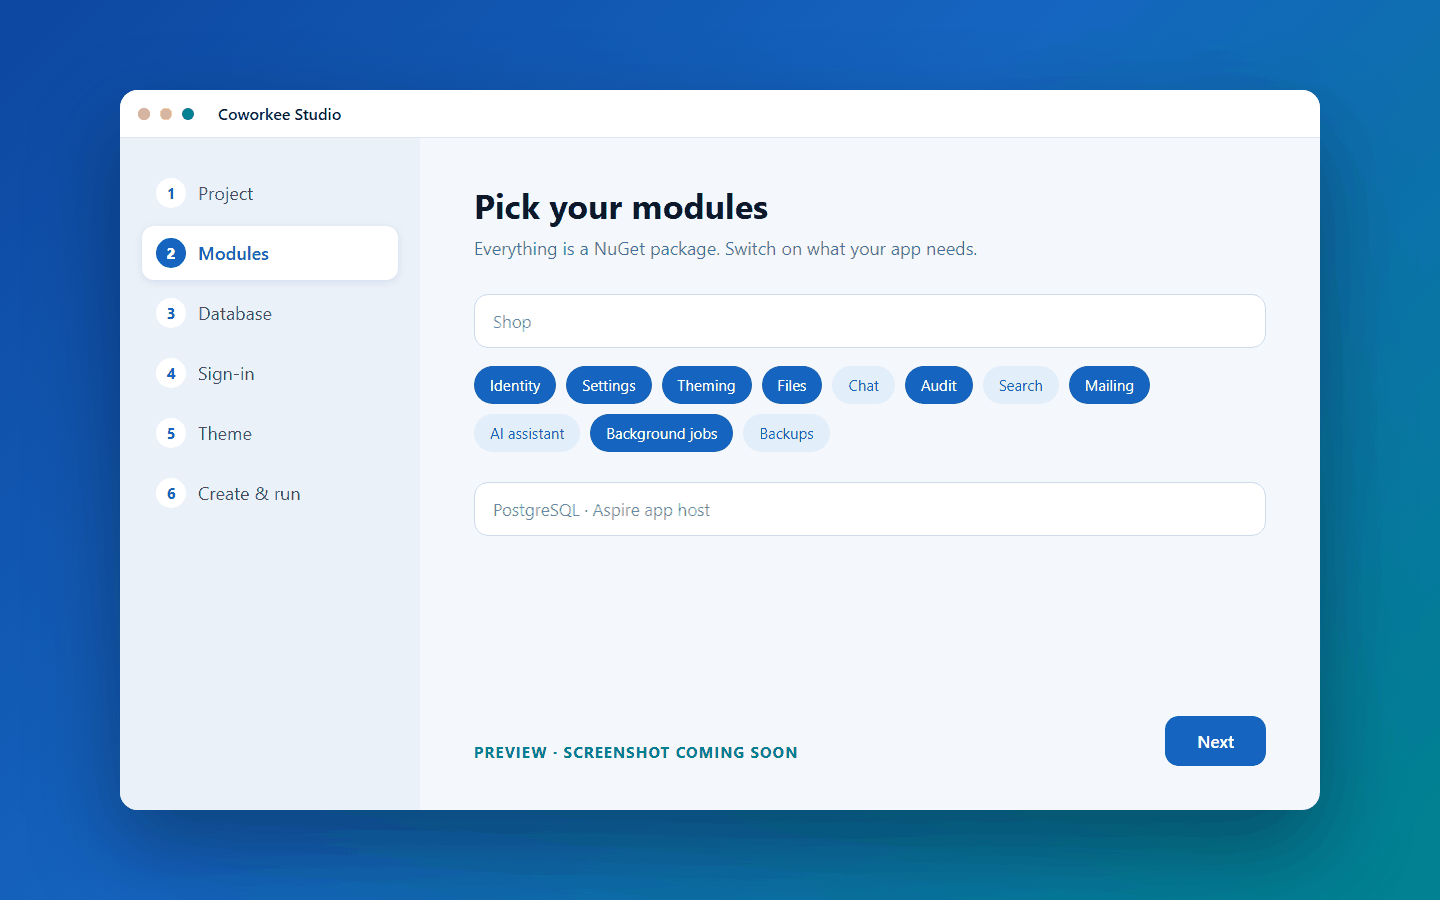
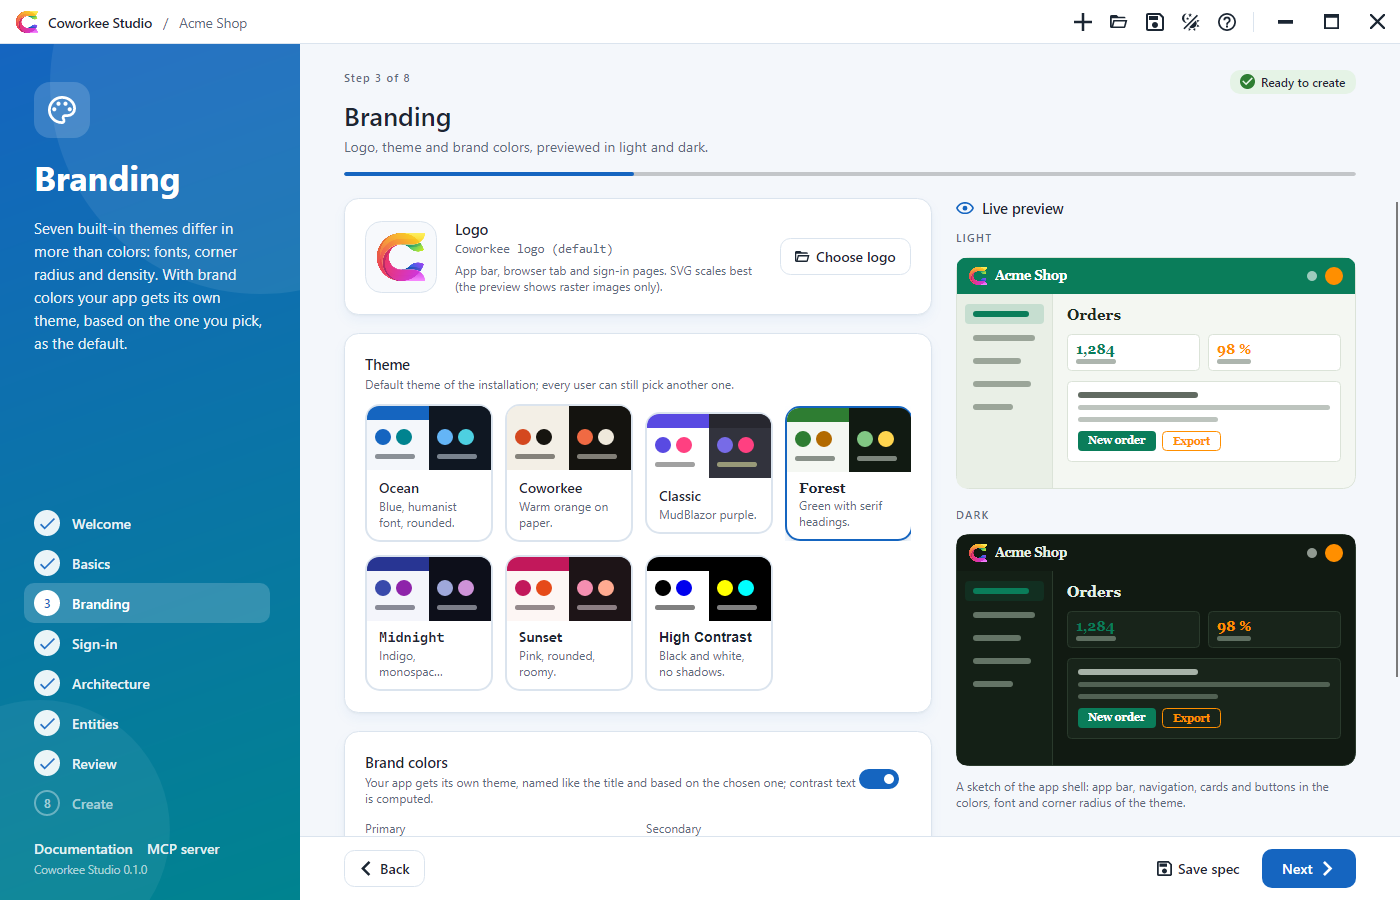
docs(studio): Coworkee Studio page in English and German with screenshots of every step, landing page shows the Studio

diff --git a/website/overrides/home.html b/website/overrides/home.html
@@ -25,7 +25,7 @@
   "copied": ("Kopiert" if de else "Copied"),
   "cli_doc": ("Alle Befehle" if de else "All commands"),
   "studio": ("Lieber mit Oberfläche? Coworkee Studio" if de else "Prefer a UI? Coworkee Studio"),
-  "studio_t": ("<code>coworkee ui</code> installiert und startet Coworkee Studio, die Desktop-App zum CLI (Tool-Befehl <code>coworkee-ui</code>). Ein Assistent führt durch Name, Module, Datenbank, Anmeldung und Theme, legt die App an und startet sie." if de else "<code>coworkee ui</code> installs and starts Coworkee Studio, the desktop app for the CLI (tool command <code>coworkee-ui</code>). A wizard walks through name, modules, database, sign-in and theme, creates the app and runs it."),
+  "studio_t": ("<code>coworkee ui</code> installiert und startet Coworkee Studio, die Desktop-App zum CLI (Tool-Befehl <code>coworkee-ui</code>). Ein Assistent führt durch Name, Logo und Theme, Anmeldung, Module und Infrastruktur und Ihre Entities, zeigt Vor- und Nachteile jeder Wahl, legt die App an und startet sie." if de else "<code>coworkee ui</code> installs and starts Coworkee Studio, the desktop app for the CLI (tool command <code>coworkee-ui</code>). A wizard walks through name, logo and theme, sign-in, modules, infrastructure and your entities, shows what each choice brings and costs, creates the app and runs it."),
   "mcp": ("Für KI-Assistenten" if de else "For AI assistants"),
   "mcp_t": ("<code>coworkee mcp</code> startet einen MCP-Server: Claude, Copilot und andere Assistenten legen Apps, Module und Migrationen über dieselben Befehle an." if de else "<code>coworkee mcp</code> starts an MCP server: Claude, Copilot and other assistants create apps, modules and migrations through the same commands."),
   "tour": ("Ein Rundgang durch die Demo-App" if de else "A tour of the demo app"),
@@ -97,11 +97,18 @@
   ("languages-light", "Sprachen" if de else "Languages"),
   ("account-light", "Konto" if de else "Account"),
   ("swagger-light", "Swagger"),
-  ("studio-wizard", "Coworkee Studio (Vorschau)" if de else "Coworkee Studio (preview)")
+  ("studio-welcome-light", "Coworkee Studio: Start" if de else "Coworkee Studio: start"),
+  ("studio-branding-dark", "Coworkee Studio: Branding mit Live-Vorschau" if de else "Coworkee Studio: branding with live preview"),
+  ("studio-architecture-light", "Coworkee Studio: Module und Infrastruktur" if de else "Coworkee Studio: modules and infrastructure"),
+  ("studio-entities-dark", "Coworkee Studio: Entities entwerfen" if de else "Coworkee Studio: designing entities"),
+  ("studio-generate-light", "Coworkee Studio: die App wird angelegt" if de else "Coworkee Studio: the app is created")
 ] %}
 
 {% macro shot(name) -%}
-  {{ ("assets/screenshots/" ~ name ~ (".png" if name.startswith("studio-") else ".webp")) | url }}
+  {%- if name == "studio-wizard" -%}{%- set file = name ~ ".png" -%}
+  {%- elif de and name.startswith("studio-") and name.endswith("-light") -%}{%- set file = name ~ "-de.webp" -%}
+  {%- else -%}{%- set file = name ~ ".webp" -%}{%- endif -%}
+  {{ ("assets/screenshots/" ~ file) | url }}
 {%- endmacro %}
 
 {% macro code(cmd) -%}
@@ -175,7 +182,12 @@
         </ol>
         <div class="cw-studio cw-reveal">
           <a class="cw-zoom" href="{{ shot('studio-wizard') }}" data-caption="Coworkee Studio">
-            <img src="{{ shot('studio-wizard') }}" alt="Coworkee Studio" loading="lazy">
+            <div class="cw-slides">
+              {% for n in ["studio-welcome", "studio-branding", "studio-architecture", "studio-entities"] %}
+                <img class="cw-light" src="{{ shot(n ~ '-light') }}" alt="Coworkee Studio" loading="lazy">
+                <img class="cw-dark" src="{{ shot(n ~ '-dark') }}" alt="" loading="lazy">
+              {% endfor %}
+            </div>
           </a>
           <div class="cw-studio__body">
             <h3>{% include ".icons/material/monitor-dashboard.svg" %}{{ t.studio }}</h3>

diff --git a/website/docs/getting-started/studio.de.md b/website/docs/getting-started/studio.de.md
@@ -1,0 +1,91 @@
+# Coworkee Studio
+
+Coworkee Studio ist der Desktop-Assistent der [Kommandozeile](cli.md). Er führt Seite für Seite durch eine neue App, erklärt, was jede Entscheidung bringt und kostet, zeigt Logo, Theme und Anmeldedesign als Vorschau, nimmt Ihre Entities auf und lässt die CLI die Solution anlegen. Er läuft unter Windows, macOS und Linux.
+
+![Coworkee Studio](../assets/screenshots/studio-architecture-light-de.webp)
+
+## Installieren und starten
+
+```bash
+dotnet tool install -g Coworkee.Cli
+coworkee ui
+```
+
+Mehr braucht es nicht: `coworkee ui` installiert das Studio (globales Tool `Coworkee.Studio`, Befehl `coworkee-ui`) in der Version der CLI, wenn es fehlt, aktualisiert es, wenn es älter ist, und startet es. Weitere Argumente gehen an das Studio:
+
+| Argument | |
+|---|---|
+| `--spec <datei>` | Öffnet eine [App-Spezifikation](cli.md#app-spezifikationen) |
+| `--output <ordner>` | Ordner, in dem der Ordner der App angelegt wird |
+| `--theme light` oder `dark` | Farbmodus (Standard: der des Systems) |
+| `--lang en` oder `de` | Sprache (Standard: die des Systems) |
+
+```bash
+coworkee ui --spec shop.json
+```
+
+Für lokale Builds von Coworkee: `coworkee ui --add-source <ordner> --studio-version <version>`.
+
+## Die Seiten
+
+Das Panel links zeigt, wo Sie sind; jede Seite, die Sie schon gesehen haben, ist einen Klick entfernt. `Alt+→` und `Alt+←` blättern vor und zurück, `Strg+O` und `Strg+S` öffnen und speichern eine Spezifikation, `F1` öffnet die Hilfe. Das Abzeichen oben zeigt, ob die Spezifikation gültig ist; Probleme erscheinen auf der Seite, zu der sie gehören.
+
+### Willkommen
+
+Eine neue App beginnen, eine Spezifikation öffnen (`.json` aus der CLI, dem [MCP-Server](mcp.md) oder einer früheren Sitzung) oder eine der zuletzt geöffneten wählen.
+
+![Willkommen](../assets/screenshots/studio-welcome-light-de.webp)
+
+### Grundlagen
+
+Der Name wird Präfix jedes Projekts und Namespaces (`Shop.Api`, `Shop.Web`) und wird deshalb wie in der CLI geprüft: ein Buchstabe, dann Buchstaben oder Ziffern. Den Titel lesen die Benutzer im Browser, in der App-Leiste, auf den Anmeldeseiten und im Aspire-Dashboard. Der Speicherort ist der Ordner, in dem der Ordner der App angelegt wird.
+
+![Grundlagen](../assets/screenshots/studio-basics-light-de.webp)
+
+### Branding
+
+Logo, die sieben [eingebauten Themes](../modules/theming.md) als Karten in hell und dunkel und Markenfarben mit Farbwähler. Die Live-Vorschau zeichnet die Oberfläche der App (App-Leiste, Navigation, Karten, Schaltflächen) in Farben, Schrift und Eckenradius des Themes, hell und dunkel nebeneinander. Mit Markenfarben bekommt die App ein eigenes Theme, benannt wie der Titel und basierend auf dem gewählten.
+
+![Branding](../assets/screenshots/studio-branding-light-de.webp)
+
+### Anmeldung
+
+Karte, Split oder Slide, gezeichnet als kleine animierte Skizzen der echten [Anmeldeseiten](../security/sign-in-pages.md), mit Bild oder Video neben dem Formular und dessen Seite.
+
+![Anmeldung](../assets/screenshots/studio-signin-light-de.webp)
+
+### Architektur
+
+Vorlagen für den App-Typ (Minimal, Business-App, Teamarbeit, SaaS-Plattform, Alles) setzen Module und Infrastruktur; danach lässt sich jede Option von `coworkee options` ändern: Beschreibung, Vor- und Nachteile, wann sie passt, das Paket und der Schalter von `coworkee new`. Das Panel rechts zeigt, was die Solution enthalten wird: Projekte, die Container des Aspire-AppHosts (Postgres, Redis, Mailpit, Elasticsearch, RabbitMQ, Azurite, Keycloak) und die Coworkee-Pakete.
+
+![Architektur](../assets/screenshots/studio-architecture-light-de.webp)
+
+### Entities
+
+Feature-Module mit ihren Entities: Name, Plural, Client-Entity, DTO-Mapping und ein Raster der Eigenschaften (Name, Typ, Pflicht, maximale Länge). Probleme erscheinen am Modul oder an der Entity, die sie betreffen. Das Panel rechts zeigt, was die CLI für die gewählte Entity erzeugt: Route der Seite, Route der API, Namen der Berechtigungen und Dateien. **Beispiel** fügt ein Sales-Modul mit Kunden und Aufträgen hinzu.
+
+![Entities](../assets/screenshots/studio-entities-light-de.webp)
+
+### Prüfen
+
+Die Zusammenfassung, die Prüfung nach den Regeln der CLI, die Spezifikation als JSON (kopieren oder speichern) und die passenden Befehlszeilen: `coworkee new --spec` mit allem und `coworkee new` mit Schaltern für dieselbe App ohne Entities. Logo und Medien aus anderen Ordnern werden beim Speichern neben die Spezifikation kopiert, denn die CLI liest Dateien einer Spezifikation nur aus deren Ordner.
+
+![Prüfen](../assets/screenshots/studio-review-light-de.webp)
+
+### Anlegen
+
+Das Studio schreibt die Spezifikation, ruft `coworkee spec validate` und `coworkee new --spec` auf und zeigt jeden Schritt der CLI, sobald er beginnt, auf Wunsch mit der ganzen Ausgabe. Ausgabeordner, Logo und Medien gehen auf die Befehlszeile. Danach: Ordner öffnen, in VS Code, Rider oder Visual Studio öffnen oder die App mit `coworkee run` in einem neuen Terminal starten.
+
+![Anlegen](../assets/screenshots/studio-generate-light-de.webp)
+
+Ist die CLI nicht installiert, bietet das Studio an, `dotnet tool install -g Coworkee.Cli` auszuführen oder eine lokale CLI zu verwenden (`coworkee.exe` oder `Coworkee.Cli.dll`).
+
+## Hilfe und der MCP-Server
+
+Die Hilfe (`F1` oder das Fragezeichen) erklärt den Assistenten, die Befehle der CLI und den [MCP-Server](mcp.md): was `coworkee mcp` ist, seine Werkzeuge und die Registrierung für Claude Code, Claude Desktop und VS Code mit Kopierknöpfen.
+
+![Hilfe mit dem MCP-Server](../assets/screenshots/studio-help-light-de.webp)
+
+## Einstellungen
+
+Die Einstellungen in der Hilfe: Sprache (System, Englisch, Deutsch), Farbmodus, die zu verwendende CLI (leer für das globale Tool, eine Programmdatei oder `Coworkee.Cli.dll`), eine Quelle der Vorlage (`.nupkg` oder Ordner, als `--template-source` übergeben) und ein lokaler Paket-Feed, den das Restore der neuen App neben nuget.org nutzt. Sie liegen pro Benutzer zusammen mit den zuletzt geöffneten Spezifikationen im Anwendungsdatenordner unter `Coworkee/Studio/settings.json`.

diff --git a/website/docs/getting-started/studio.md b/website/docs/getting-started/studio.md
@@ -1,0 +1,91 @@
+# Coworkee Studio
+
+Coworkee Studio is the desktop wizard of the [command line](cli.md). It walks through a new app page by page, explains what every choice brings and costs, previews logo, theme and sign-in design, lets you describe your entities and has the CLI create the solution. It runs on Windows, macOS and Linux.
+
+![Coworkee Studio](../assets/screenshots/studio-architecture-light.webp)
+
+## Install and start
+
+```bash
+dotnet tool install -g Coworkee.Cli
+coworkee ui
+```
+
+That is all: `coworkee ui` installs the Studio (global tool `Coworkee.Studio`, command `coworkee-ui`) in the version of the CLI when it is missing, updates it when it is older, and starts it. Further arguments go to the Studio:
+
+| Argument | |
+|---|---|
+| `--spec <file>` | Opens an [app spec](cli.md#app-specs) |
+| `--output <folder>` | Folder in which the app folder is created |
+| `--theme light` or `dark` | Color mode (default: the system's) |
+| `--lang en` or `de` | Language (default: the system's) |
+
+```bash
+coworkee ui --spec shop.json
+```
+
+For local builds of Coworkee: `coworkee ui --add-source <folder> --studio-version <version>`.
+
+## The pages
+
+The panel on the left shows where you are; every page you have seen is one click away. `Alt+→` and `Alt+←` go forward and back, `Ctrl+O` and `Ctrl+S` open and save a spec, `F1` opens the help. The badge at the top shows whether the spec is valid; problems appear on the page they belong to.
+
+### Welcome
+
+Start a new app, open a spec (`.json` from the CLI, the [MCP server](mcp.md) or an earlier session) or pick one of the recent specs.
+
+![Welcome](../assets/screenshots/studio-welcome-light.webp)
+
+### Basics
+
+The name becomes the prefix of every project and namespace (`Shop.Api`, `Shop.Web`), so it is checked like the CLI checks it: a letter, then letters or digits. The title is what users read in the browser, the app bar, on the sign-in pages and in the Aspire dashboard. The location is the folder in which the app folder is created.
+
+![Basics](../assets/screenshots/studio-basics-light.webp)
+
+### Branding
+
+Logo, the seven [built-in themes](../modules/theming.md) as cards in light and dark, and brand colors with a color picker. The live preview draws the app shell (app bar, navigation, cards, buttons) in the colors, font and corner radius of the theme, in light and dark side by side. With brand colors the app gets its own theme, named like the title and based on the chosen one.
+
+![Branding](../assets/screenshots/studio-branding-dark.webp)
+
+### Sign-in
+
+Card, Split or Slide, drawn as small animated sketches of the real [sign-in pages](../security/sign-in-pages.md), with an image or video next to the form and its side.
+
+![Sign-in](../assets/screenshots/studio-signin-light.webp)
+
+### Architecture
+
+Presets for the app type (Minimal, Business app, Collaboration, SaaS platform, Everything) set the modules and infrastructure; then every option of `coworkee options` can be changed: description, pros, cons, when to use it, the package and the switch of `coworkee new`. The panel on the right lists what the solution will contain: projects, the containers of the Aspire app host (Postgres, Redis, Mailpit, Elasticsearch, RabbitMQ, Azurite, Keycloak) and the Coworkee packages.
+
+![Architecture](../assets/screenshots/studio-architecture-dark.webp)
+
+### Entities
+
+Feature modules with their entities: name, plural, client entity, DTO mapping and a grid of properties (name, type, required, maximum length). Problems are shown on the module or entity they concern. The panel on the right shows what the CLI generates for the selected entity: page route, API route, permission names and files. **Example** adds a Sales module with customers and orders.
+
+![Entities](../assets/screenshots/studio-entities-light.webp)
+
+### Review
+
+The summary, the validation with the rules of the CLI, the spec as JSON (copy or save it) and the equivalent command lines: `coworkee new --spec` with everything, and `coworkee new` with switches for the same app without entities. Logo and media from other folders are copied next to the spec when you save it, because the CLI reads files of a spec only from its folder.
+
+![Review](../assets/screenshots/studio-review-light.webp)
+
+### Create
+
+The Studio writes the spec, runs `coworkee spec validate` and `coworkee new --spec`, and shows each step of the CLI as it happens, with the full output when you want it. Output folder, logo and media go on the command line. Afterwards: open the folder, open it in VS Code, Rider or Visual Studio, or run the app with `coworkee run` in a new terminal.
+
+![Create](../assets/screenshots/studio-generate-dark.webp)
+
+When the CLI is not installed, the Studio offers to run `dotnet tool install -g Coworkee.Cli` or to use a local CLI (`coworkee.exe` or `Coworkee.Cli.dll`).
+
+## Help and the MCP server
+
+The help (`F1` or the question mark) explains the wizard, the CLI commands and the [MCP server](mcp.md): what `coworkee mcp` is, its tools, and the registration for Claude Code, Claude Desktop and VS Code with copy buttons.
+
+![Help with the MCP server](../assets/screenshots/studio-help-light.webp)
+
+## Settings
+
+The settings in the help drawer: language (system, English, German), color mode, the CLI to use (empty for the global tool, an executable or `Coworkee.Cli.dll`), a template source (`.nupkg` or folder, passed as `--template-source`) and a local package feed that the restore of the new app uses next to nuget.org. They are kept per user with the recent specs in the application data folder under `Coworkee/Studio/settings.json`.

diff --git a/website/docs/getting-started/cli.de.md b/website/docs/getting-started/cli.de.md
@@ -154,7 +154,7 @@ coworkee ui
 coworkee ui --spec shop.json
 ```
 
-`coworkee ui` startet Coworkee Studio, einen Desktop-Assistenten für Name, Titel, Logo, Farben, Module, Anmeldedesign, Theme und Entities; er legt die App mit dieser CLI an. Das Studio ist das globale Tool `Coworkee.Studio` (Befehl `coworkee-ui`): `coworkee ui` installiert es in der Version der CLI, wenn es fehlt, und aktualisiert es, wenn es älter ist. Weitere Argumente gehen an das Studio. Für lokale Builds: `--prerelease`, `--add-source <ordner>` und `--studio-version <version>`; eine ausdrücklich genannte Version, die älter als die installierte ist, wird ebenfalls installiert.
+`coworkee ui` startet Coworkee Studio, einen Desktop-Assistenten für Name, Titel, Logo, Farben, Module, Anmeldedesign, Theme und Entities; er legt die App mit dieser CLI an. Das Studio ist das globale Tool `Coworkee.Studio` (Befehl `coworkee-ui`): `coworkee ui` installiert es in der Version der CLI, wenn es fehlt, und aktualisiert es, wenn es älter ist. Weitere Argumente gehen an das Studio, siehe [Coworkee Studio](studio.md). Für lokale Builds: `--prerelease`, `--add-source <ordner>` und `--studio-version <version>`; eine ausdrücklich genannte Version, die älter als die installierte ist, wird ebenfalls installiert.
 
 ## Weitere Befehle
 

diff --git a/website/docs/getting-started/cli.md b/website/docs/getting-started/cli.md
@@ -154,7 +154,7 @@ coworkee ui
 coworkee ui --spec shop.json
 ```
 
-`coworkee ui` starts Coworkee Studio, a desktop wizard for name, title, logo, colors, modules, sign-in design, theme and entities; it creates the app with this CLI. The Studio is the global tool `Coworkee.Studio` (command `coworkee-ui`): `coworkee ui` installs it in the version of the CLI when it is missing and updates it when it is older. Other arguments go to the Studio. For local builds: `--prerelease`, `--add-source <folder>` and `--studio-version <version>`; an explicit version older than the installed one is installed as well.
+`coworkee ui` starts Coworkee Studio, a desktop wizard for name, title, logo, colors, modules, sign-in design, theme and entities; it creates the app with this CLI. The Studio is the global tool `Coworkee.Studio` (command `coworkee-ui`): `coworkee ui` installs it in the version of the CLI when it is missing and updates it when it is older. Other arguments go to the Studio, see [Coworkee Studio](studio.md). For local builds: `--prerelease`, `--add-source <folder>` and `--studio-version <version>`; an explicit version older than the installed one is installed as well.
 
 ## Other commands
 

diff --git a/website/docs/getting-started/installation.de.md b/website/docs/getting-started/installation.de.md
@@ -17,7 +17,7 @@ cd Shop
 coworkee run
 ```
 
-Die Konsole zeigt die Adresse des Aspire-Dashboards; von dort öffnen Sie die Web-App. Die [CLI-Seite](cli.md) beschreibt die Optionen: Module an oder aus, Event-Bus, Speicher, Theme, Markenfarben, Logo, Anmeldedesign. Mit `coworkee new --spec app.json` kommt die App gleich mit eigenen Modulen und Entities, `coworkee ui` öffnet Coworkee Studio, einen Desktop-Assistenten dafür, und mit `coworkee mcp` erledigt das ein KI-Agent ([MCP-Server](mcp.md)).
+Die Konsole zeigt die Adresse des Aspire-Dashboards; von dort öffnen Sie die Web-App. Die [CLI-Seite](cli.md) beschreibt die Optionen: Module an oder aus, Event-Bus, Speicher, Theme, Markenfarben, Logo, Anmeldedesign. Mit `coworkee new --spec app.json` kommt die App gleich mit eigenen Modulen und Entities, `coworkee ui` öffnet [Coworkee Studio](studio.md), einen Desktop-Assistenten dafür, und mit `coworkee mcp` erledigt das ein KI-Agent ([MCP-Server](mcp.md)).
 
 Ohne CLI funktioniert dasselbe Template mit `dotnet new`:
 

diff --git a/website/docs/getting-started/installation.md b/website/docs/getting-started/installation.md
@@ -17,7 +17,7 @@ cd Shop
 coworkee run
 ```
 
-The console prints the URL of the Aspire dashboard; open the web app from there. The [CLI page](cli.md) lists the options: modules on or off, event bus, storage, theme, brand colors, logo, sign-in design. With `coworkee new --spec app.json` the app comes with its own modules and entities, `coworkee ui` opens Coworkee Studio, a desktop wizard for the same, and `coworkee mcp` lets an AI agent do it ([MCP server](mcp.md)).
+The console prints the URL of the Aspire dashboard; open the web app from there. The [CLI page](cli.md) lists the options: modules on or off, event bus, storage, theme, brand colors, logo, sign-in design. With `coworkee new --spec app.json` the app comes with its own modules and entities, `coworkee ui` opens [Coworkee Studio](studio.md), a desktop wizard for the same, and `coworkee mcp` lets an AI agent do it ([MCP server](mcp.md)).
 
 Without the CLI, the same template works with `dotnet new`:
 
